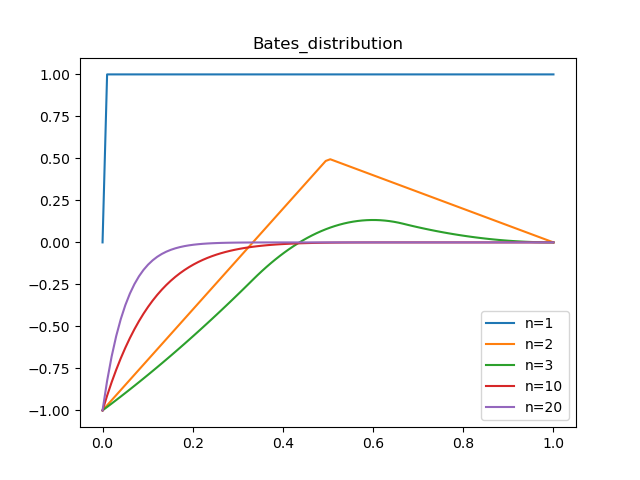
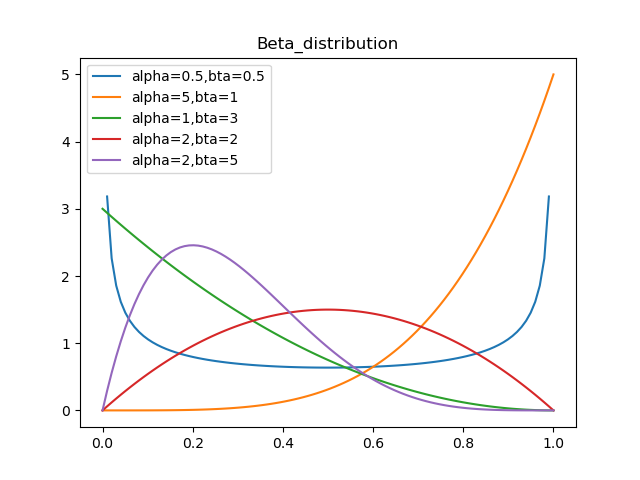
new

diff --git a/probDistribution.py b/probDistribution.py
@@ -344,11 +344,11 @@ def testBeta_distribution(i):
     x = np.linspace(0, 1, 100)  
     ax = plt.subplot(1,1,1)
     plt.title('Beta_distribution')
-    plotSub(x, Beta_distribution(x), ax,label='alpha=0.5,ba=0.5')
-    plotSub(x, Beta_distribution(x,alpha=5,ba=1), ax,label='alpha=5,ba=1')
-    plotSub(x, Beta_distribution(x,alpha=1,ba=3), ax,label='alpha=1,ba=3')
-    plotSub(x, Beta_distribution(x,alpha=2,ba=2), ax,label='alpha=2,ba=2')
-    plotSub(x, Beta_distribution(x,alpha=2,ba=5), ax,label='alpha=2,ba=5')
+    plotSub(x, Beta_distribution(x), ax,label='alpha=0.5,bta=0.5')
+    plotSub(x, Beta_distribution(x,alpha=5,bta=1), ax,label='alpha=5,bta=1')
+    plotSub(x, Beta_distribution(x,alpha=1,bta=3), ax,label='alpha=1,bta=3')
+    plotSub(x, Beta_distribution(x,alpha=2,bta=2), ax,label='alpha=2,bta=2')
+    plotSub(x, Beta_distribution(x,alpha=2,bta=5), ax,label='alpha=2,bta=5')
     plt.savefig(imgSavePath+'dsitribution{}.png'.format(i)),plt.show()
     
 def testGeneralized_logistic_distribution(i):
@@ -787,8 +787,8 @@ def plotAllDistributions():
         f(i)
 
 def main():
-    plotAllDistributions()
-    #testBeta_binomial_distribution(99)
+    #plotAllDistributions()
+    testBeta_distribution(32)
     pass
 
 if __name__ == '__main__':

diff --git a/distributions.py b/distributions.py
@@ -73,7 +73,7 @@ def Modified_Bessel_functions(x,alpha=0): #https://en.wikipedia.org/wiki/Bessel_
     def Bessel(k):
         return 1/(factorial(k)*gamma(k+alpha+1))*np.power(0.2*x,2*k+alpha)
     
-    max = 1000
+    max = 10000
     return np.sum(list(map(Bessel, [i for i in range(max)])))
 
 def Skellam_distribution(N=8,u1=1,u2=1): #https://en.wikipedia.org/wiki/Skellam_distribution
@@ -168,8 +168,9 @@ def Rayleigh_distribution(x,delta=0.5):#https://en.wikipedia.org/wiki/Rayleigh_d
         y[l[0]] = (x/delta**2)*np.exp(-1*x**2/(2*delta**2))
     return y
     
-def Beta_distribution(x,alpha=0.5,ba=0.5): #https://en.wikipedia.org/wiki/Beta_distribution
-    return np.power(x, alpha-1)*np.power(1-x, ba-1)/beta(alpha,ba)
+def Beta_distribution(x,alpha=0.5,bta=0.5): #https://en.wikipedia.org/wiki/Beta_distribution
+    z = gamma(alpha)*gamma(bta)/gamma(alpha+bta)
+    return np.power(x, alpha-1)*np.power(1-x, bta-1)/z
  
 def Chi_distribution(x,k=1): #https://en.wikipedia.org/wiki/Chi_distribution
     return (2/ (np.power(2,k/2)* gamma(k/2)))*np.power(x,k-1)*np.exp(-0.5*x**2)
